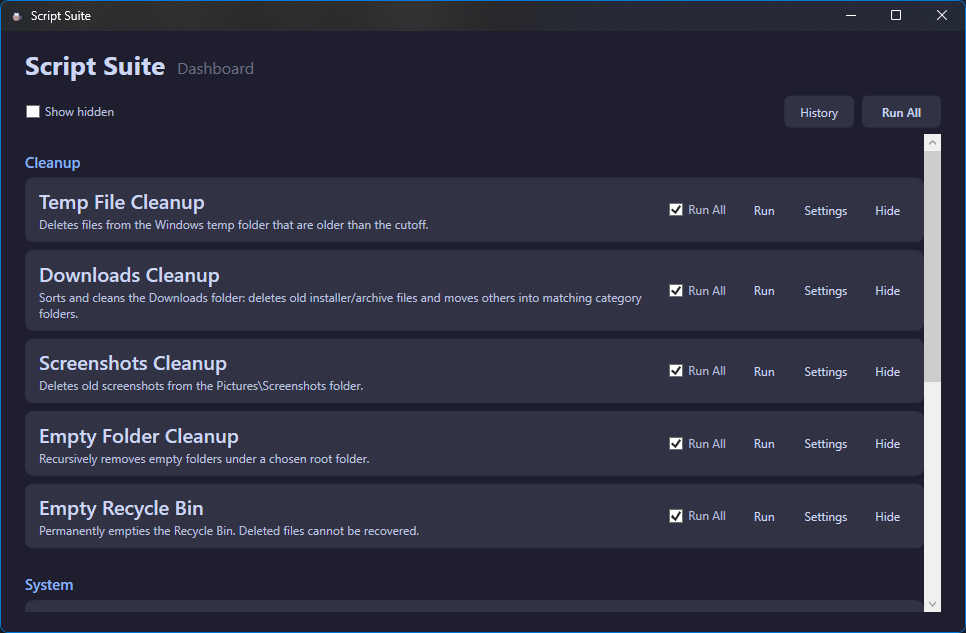
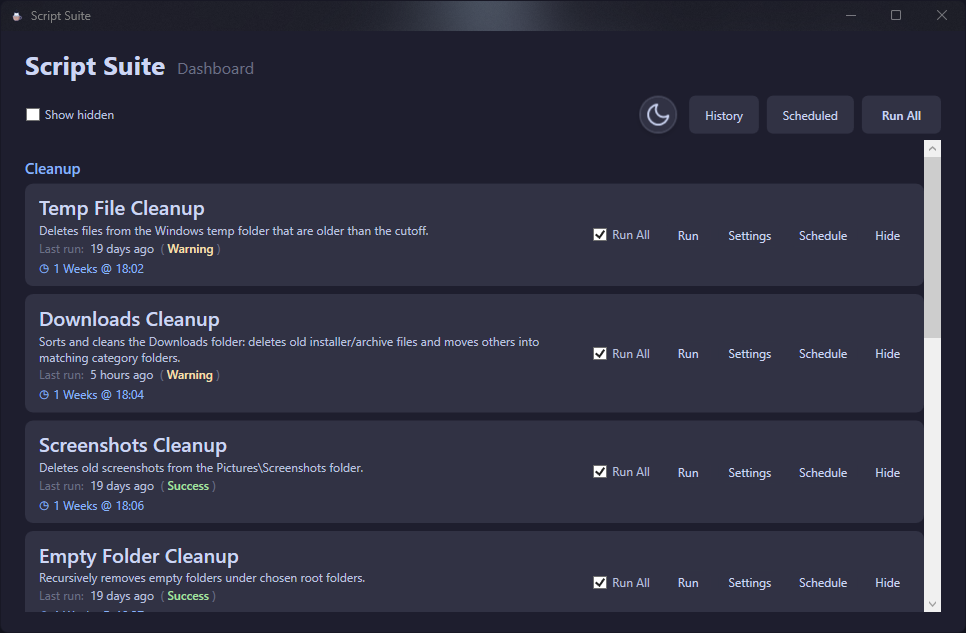
docs: update README and preview screenshots

diff --git a/README.md b/README.md
@@ -9,7 +9,7 @@ A Windows maintenance suite — a WPF dashboard (`ScriptSuite`) over nine self-c
 
 ![ScriptSuite dashboard](assets/dashboard.png)
 
-*ScriptSuite dashboard in Mocha dark (966×633) — the Cleanup section shown (5 of 9 script tiles); System and Reports sections continue below. Each tile has run, settings, and hide controls, plus "run all" selection. History and Run All are accessible from the header.*
+*ScriptSuite dashboard in Mocha dark (966×633) — showing the top Cleanup tiles; Empty Recycle Bin, System, and Reports sections continue below. Each tile shows last-run status and any active schedule (`◷`), plus `Run All` selection and `Run`, `Settings`, `Schedule`, and `Hide` controls. The circular theme toggle (Moon/Sun), `History`, `Scheduled`, and `Run All` buttons (plus `?` help) are in the header.*
 
 ## Download — for most users (no SDK needed)
 
@@ -17,9 +17,9 @@ A Windows maintenance suite — a WPF dashboard (`ScriptSuite`) over nine self-c
 
 1. Download [`ScriptSuite-win-x64-self-contained.zip`](https://github.com/Bllodwolfie/windows-scripts/releases/download/v4.0.0/ScriptSuite-win-x64-self-contained.zip) (self-contained `win-x64`, no .NET runtime to install).
 2. Right-click the zip → `Extract All` → open the folder.
-3. **Primary install method:** Double-click `Install.cmd`. It automatically unblocks downloaded files, bypasses restrictive execution policies, prompts for UAC elevation to install to `%ProgramFiles%\ScriptSuite\` with admin-only write ACLs (SEC-02), creates the Start Menu shortcut (Windows Search → `ScriptSuite`), and verifies the installation.
+3. **Primary install method:** Double-click `Install.cmd`. It automatically unblocks downloaded files, bypasses restrictive execution policies, prompts for UAC elevation to install to `%ProgramFiles%\ScriptSuite\` with admin-only write ACLs (SEC-02), creates the Start Menu shortcut (Windows Search → `ScriptSuite`), registers ScriptSuite in Windows **Installed apps** (with `Uninstall.cmd` / `Uninstall.ps1`), and verifies the installation.
    - **Manual fallback:** Open PowerShell and run `powershell -ExecutionPolicy Bypass -File .\Install.ps1`, or run `ScriptSuite.exe` directly as a portable app without installing.
-4. **Uninstallation:** Uninstall via Windows **Settings > Installed apps** (or run `Uninstall.cmd` / `Uninstall.ps1`). This removes the app and its scheduled tasks but keeps `%LOCALAPPDATA%\ScriptSuite` data (`history.db`, configs).
+4. **Uninstallation:** Uninstall via Windows **Settings > Installed apps** (or run `Uninstall.cmd` / `Uninstall.ps1`). This removes the app and its scheduled tasks (including uninstalling cleanly from a temp copy when triggered via Installed apps) while keeping `%LOCALAPPDATA%\ScriptSuite` data (`history.db`, configs).
 
 > **First-run SmartScreen & UAC:** The installer and exe are unsigned, so Windows SmartScreen shows "Windows protected your PC" (`More info` → `Run anyway`) and UAC elevation prompts show `cmd.exe` or `powershell.exe` rather than a publisher. The zip comes from GitHub via `Mark of the Web`; double-clicking `Install.cmd` automatically applies `Unblock-File`. No admin needed to run the app itself.
 
@@ -27,7 +27,7 @@ A Windows maintenance suite — a WPF dashboard (`ScriptSuite`) over nine self-c
 
 ## Build from source — for developers
 
-**Prerequisite:** [.NET 10 SDK](https://dotnet.microsoft.com/download) (`10.0.x`, `dotnet --version` should print `10.0.400+`). The app builds `ScriptSuite/ScriptSuite.csproj:3` (`net10.0-windows`, `UseWPF`).
+**Prerequisite:** [.NET 10 SDK](https://dotnet.microsoft.com/download) (`10.0.x`, `dotnet --version` should print `10.0.400+`). The app builds `ScriptSuite/ScriptSuite.csproj` (`net10.0-windows`, `UseWPF`).
 
 ```powershell
 git clone https://github.com/Bllodwolfie/windows-scripts.git
@@ -59,36 +59,38 @@ Get-ChildItem .\scripts -Recurse -Filter *.ps1 | Unblock-File
 
 ## The 9 scripts
 
-Descriptions are verbatim from `ScriptSuite/Manifests/*.json:2` (source of truth for what ships; `v1.0.1` excludes `m12_elevated_test` test scaffolding).
+Descriptions come from `ScriptSuite/Manifests/*.json` (source of truth for what ships; `v1.0.1` excludes `m12_elevated_test` test scaffolding):
 
 | Script | What it does | Requires admin |
 |--------|--------------|----------------|
 | [SystemHealthReport](scripts/SystemHealthReport/) | Generates a self-contained HTML report of system health (CPU, memory, disks, network, errors). | No |
 | [ClearEventLogs](scripts/ClearEventLogs/) | Backs up and clears all Windows event logs. | **Yes** |
-| [DownloadsCleanup](scripts/DownloadsCleanup/) | Sorts and cleans the Downloads folder: deletes old installer/archive files and moves others into matching category folders. Supports Advanced per-extension rules (Ignore/Delete/MoveTo) that override the simple `Extensions to delete` list. | No |
-| [EmptyFolderCleanup](scripts/EmptyFolderCleanup/) | Recursively removes empty folders under chosen root folders. Protects common build and project directories (.git, .svn, .hg, node_modules, vendor, .venv, venv, __pycache__, .cargo, target, bin, obj, .vs, build, dist, packages, .nuget), skips reparse points (junctions, symlinks, OneDrive placeholders), and supports multiple scan roots. | No |
-| [EmptyRecycleBin](scripts/EmptyRecycleBin/) | Permanently empties the Recycle Bin. Deleted files cannot be recovered. Supports “Only delete items older than N days” (0 = everything). | No |
+| [DownloadsCleanup](scripts/DownloadsCleanup/) | Sorts and cleans the Downloads folder: deletes old installer/archive files and moves others into matching category folders (including Music, Videos, Pictures, Modeling, Cisco PacketTracer, Spreadsheets, Presentations, Text, and Configuration). Supports `IgnorePatterns`, multiple `SourceDirs`, and Advanced per-extension rules (`Ignore`/`Delete`/`MoveTo`) that override the simple `Extensions to delete` list. | No |
+| [EmptyFolderCleanup](scripts/EmptyFolderCleanup/) | Recursively removes empty folders under chosen root folders via a single bottom-up scan. Protects common build and project directories (`.git`, `.svn`, `.hg`, `node_modules`, `vendor`, `.venv`, `venv`, `__pycache__`, `.cargo`, `target`, `bin`, `obj`, `.vs`, `build`, `dist`, `packages`, `.nuget`), skips reparse points (junctions, symlinks, OneDrive placeholders), and supports multiple scan roots. | No |
+| [EmptyRecycleBin](scripts/EmptyRecycleBin/) | Permanently empties the Recycle Bin. Deleted files cannot be recovered. Supports “Only delete items older than N days” (`0` = everything). | No |
 | [RestorePoint](scripts/RestorePoint/) | Creates a System Restore point and verifies it actually appeared. | **Yes** |
-| [ScreenshotsCleanup](scripts/ScreenshotsCleanup/) | Deletes old screenshots from the Pictures\Screenshots folder. | No |
+| [ScreenshotsCleanup](scripts/ScreenshotsCleanup/) | Deletes old screenshots from chosen folders (default `Pictures\Screenshots`). Supports multiple `TargetFolders` and `IgnorePatterns`. | No |
 | [SoftwareInventory](scripts/SoftwareInventory/) | Generates a text report of all installed software. | No |
-| [TempCleanup](scripts/TempCleanup/) | Deletes files from the Windows temp folder that are older than the cutoff. | No |
+| [TempCleanup](scripts/TempCleanup/) | Deletes files from chosen temp folders (default `%TEMP%`) that are older than the cutoff. Supports multiple `TargetFolders` and `IgnoreFolders`. | No |
 
-Defaults live in `ScriptSuite/DefaultConfigs/*.json:1` and copy to `%LOCALAPPDATA%\ScriptSuite\Configs\` on first run (`AppPaths.cs:37` `EnsureConfigsSeeded`, never overwrites existing):
+Defaults live in `ScriptSuite/DefaultConfigs/*.json` and copy to `%LOCALAPPDATA%\ScriptSuite\Configs\` on first run (`AppPaths.cs` `EnsureConfigsSeeded`, never overwrites existing):
 
-- `ClearEventLogs` → `BackupDir: %USERPROFILE%\Documents\Script_Logs\EventLogBackups`
-- `DownloadsCleanup` → `SourceDirs: ["%USERPROFILE%\Downloads"]`, `CutoffDays: 7`, `LogDir: %USERPROFILE%\Documents\Script_Logs` (+ `DeleteExts` / `Categories`)
-- `EmptyFolderCleanup` → `TargetFolders: ["%USERPROFILE%\Downloads"]`, `UseDefaultIgnoreNames: true`
-- `ScreenshotsCleanup` → `TargetFolders: ["%USERPROFILE%\Pictures\Screenshots"]`, `CutoffDays: 7`
+- `ClearEventLogs` → `BackupDir: %USERPROFILE%\Documents\Script_Logs\EventLogBackups`, `CutoffDays: 0`
+- `DownloadsCleanup` → `SourceDirs: ["%USERPROFILE%\Downloads"]`, `CutoffDays: 7`, `LogDir: %USERPROFILE%\Documents\Script_Logs`, `LogFile: CleanupLog.txt`, `DeleteExts`, `IgnorePatterns: []`, `AdvancedRules: {}`, `Categories` (9 categories including `Documents\Networking\PacketTracer`)
+- `EmptyFolderCleanup` → `TargetFolders: ["%USERPROFILE%\Downloads"]`, `IgnoreFolders: []`, `UseDefaultIgnoreNames: true`, `LogDir: %USERPROFILE%\Documents\Script_Logs`, `LogFile: CleanupLog.txt`
+- `EmptyRecycleBin` → `MinAgeDays: 0`
+- `RestorePoint` → `Description: "Monthly Cleanup"`
+- `ScreenshotsCleanup` → `TargetFolders: ["%USERPROFILE%\Pictures\Screenshots"]`, `CutoffDays: 7`, `IgnorePatterns: []`, `LogDir: %USERPROFILE%\Documents\Script_Logs`, `LogFile: CleanupLog.txt`
 - `SoftwareInventory` → `OutputFile: %USERPROFILE%\Documents\Script_Logs\Software_Inventory.txt`
-- `SystemHealthReport` → `OutputDir: %USERPROFILE%\Documents`, `OutputFile: System_Health_Report.html`
-- `TempCleanup` → `TargetFolders: ["%TEMP%"]`, `CutoffDays: 7`
+- `SystemHealthReport` → `OutputDir: %USERPROFILE%\Documents`, `OutputFile: System_Health_Report.html`, `MaxTopProcesses: 10`, `MaxErrorEvents: 20`, `ErrorWindowHours: 24` (+ Mocha/Latte palettes)
+- `TempCleanup` → `TargetFolders: ["%TEMP%"]`, `CutoffDays: 7`, `IgnoreFolders: []`
 
 > [!NOTE]
-> **Multi-Root Cleanup Scanning:** `EmptyFolderCleanup`, `TempCleanup`, `ScreenshotsCleanup`, and `DownloadsCleanup` support scanning multiple root folders (`TargetFolders` or `SourceDirs`), automatically de-duplicating identical or overlapping nested roots and gracefully skipping inaccessible folders. `EmptyFolderCleanup` also skips reparse points (junctions, symlinks, OneDrive placeholders) and protects standard build and project folders (`.git`, `.svn`, `.hg`, `node_modules`, `vendor`, `.venv`, `venv`, `__pycache__`, `.cargo`, `target`, `bin`, `obj`, `.vs`, `build`, `dist`, `packages`, `.nuget`) by default unless opted out via `UseDefaultIgnoreNames: false`.
+> **Multi-Root Cleanup Scanning:** `EmptyFolderCleanup`, `TempCleanup`, `ScreenshotsCleanup`, and `DownloadsCleanup` support scanning multiple root folders (`TargetFolders` or `SourceDirs` with backward-compatible single-folder fallback), automatically de-duplicating identical or overlapping nested roots and gracefully skipping inaccessible folders. `EmptyFolderCleanup` also uses a single bottom-up scan, skips reparse points (junctions, symlinks, OneDrive placeholders), and protects standard build and project folders (`.git`, `.svn`, `.hg`, `node_modules`, `vendor`, `.venv`, `venv`, `__pycache__`, `.cargo`, `target`, `bin`, `obj`, `.vs`, `build`, `dist`, `packages`, `.nuget`) by default unless opted out via `UseDefaultIgnoreNames: false`.
 
 Each script supports dry-run preview where `supportsDryRun: true` in its manifest (7 of 9; `SoftwareInventory` and `SystemHealthReport` are reports, not previews).
 
-*Sample `System Health Report` output (fictional data, Catppuccin Mocha/Latte, 1360×1600) — see `assets/preview.png`:*
+*Sample `System Health Report` output (Catppuccin Mocha with built-in Mocha/Latte toggle, 1920×1080) — see `assets/preview.png`:*
 
 ![Sample System Health Report](assets/preview.png)
 
@@ -100,21 +102,21 @@ Each script supports dry-run preview where `supportsDryRun: true` in its manifes
 
 ## Scheduling — unattended runs via Task Scheduler
 
-Every script (all 9, including the 2 admin ones) can be scheduled from its tile **Schedule** button. The dialog supports `Days`, `Hours`, and `Weeks` intervals:
+Every script (all 9, including the 2 admin ones) can be scheduled from its tile **Schedule** button or from the **Scheduled Tasks** overview window. The dialog supports `Days`, `Hours`, and `Weeks` intervals:
 * **Weekly recurrence & weekday selection:** When `Weeks` is selected, Mon–Sun checkboxes allow choosing any combination of weekdays (at least one required). For multi-week schedules (`Interval > 1`), a start date picker anchors the recurrence week cycle.
 * **Daily and hourly start date:** For `Days` or `Hours`, specify an optional start date to anchor recurrence or delay the first execution.
 * **Live next run preview:** Displays `"Next run: Ddd dd.MM.yyyy HH:mm"` computed from the exact trigger calculation algorithm.
 * **Collision warnings:** Non-blocking warning banner notifies you if another enabled script is scheduled at the same time on overlapping days to avoid `Skipped — app was busy` single-instance mutex conflicts.
-* **Two tiers under the hood, one UI:** 7 non-admin scripts register `InteractiveToken Limited` tasks; 2 admin scripts (`ClearEventLogs`, `RestorePoint`) register `S4U HighestAvailable` tasks. If a task requires administrative rights to modify (such as an existing admin-owned task), the UI seamlessly prompts for UAC elevation to update the task cleanly.
-* **Per-script risk opt-in:** first time you schedule an admin script, check `I understand the risks` (stored in `%LOCALAPPDATA%\ScriptSuite\risk-consents.json` per-script, persists after unscheduling). This is separate from the **one-time UAC at Save** needed to register a `HighestAvailable` task — after that, runs are silent forever (no UAC at run time).
-* **UAC on schedule save:** Each schedule save triggers one UAC prompt by design to register or update tasks in Windows Task Scheduler; subsequent scheduled runs execute headlessly in the background without UAC prompts.
-* **Scheduled History is separate:** header `Scheduled` button opens `Scheduled History` (`Services/RunHistoryStore.cs` `ScheduledRuns` table, `INSERT` via headless `ScriptSuite.exe --scheduled-run <id>`). Manual `History` and scheduled history are distinct tabs. `Skipped — app was busy` is a distinct outcome (not silently dropped, not queued) when a trigger fires while the dashboard is open (single-instance `Global\ScriptSuite_SingleInstance_<SID>` mutex + file-lock fallback).
-* **App remains closed between runs:** Task Scheduler launches `ScriptSuite.exe --scheduled-run <id>` headlessly, it runs via `Services/ScriptExecutor.cs` `CreateDefault` (self-contained fix for `PSHOME`/`CimCmdlets` headless), inserts into `ScheduledRuns`, and exits — no tray/background process. Results only visible in `Scheduled` tab (no notifications).
-* **Storage:** schedules in `%LOCALAPPDATA%\ScriptSuite\schedules.json` (`Models/ScheduleEntry.cs`), `risk-consents.json`, and `history.db` `ScheduledRuns` (`Services/RunHistoryStore.cs:25`). `Remove Schedule` in the same dialog unregisters the task (`Unregister-ScheduledTask`) and clears the entry (dashboard `◷` indicator `HasSchedule`/`ScheduleSummary` disappears).
+* **Two tiers under the hood, one UI:** 7 non-admin scripts register `InteractiveToken Limited` tasks without UAC unless updating an existing admin-owned task returns Access Denied (`0x80070005`); 2 admin scripts (`ClearEventLogs`, `RestorePoint`) register `S4U HighestAvailable` tasks and prompt for UAC once at save. After saving, scheduled runs execute headlessly in the background with no UAC prompts.
+* **Per-script risk opt-in:** First time you schedule an admin script, check `I understand the risks` (stored in `%LOCALAPPDATA%\ScriptSuite\risk-consents.json` per-script, persists after unscheduling). This is separate from the **one-time UAC at Save** needed to register a `HighestAvailable` task.
+* **Dedicated Scheduled Tasks window:** Header `Scheduled` button opens `Scheduled Tasks` (`ScheduledTasksWindow`), listing all 9 scripts with their active schedule summary (`Active Schedule` badge), last-ran timestamp/outcome, and a `Configure` button for each script.
+* **Unified Run History:** Header `History` button opens the unified `Run History` window (`HistoryWindow`), combining manual and scheduled runs in one list with `Manual` / `Scheduled` trigger badges, search, **Trigger** (`All` / `Manual` / `Scheduled`) and **Outcome** filters, pagination (100 rows per page), and expandable per-row log details (`Open log file` / `Open folder`). `SkippedBusy` (`Skipped — app was busy`) is recorded as a distinct outcome (not silently dropped, not queued) when a scheduled trigger fires while the dashboard is open (`Global\ScriptSuite_SingleInstance_<SID>` mutex + file-lock fallback).
+* **App remains closed between runs:** Task Scheduler launches `ScriptSuite.exe --scheduled-run <id>` headlessly, runs via `Services/ScriptExecutor.cs` `CreateDefault` (self-contained fix for `PSHOME`/`CimCmdlets` headless), inserts into `history.db` (`RunHistory`, mirrored to `ScheduledRuns` for compatibility), and exits — no tray or background process and no toast notifications.
+* **Storage:** Schedules live in `%LOCALAPPDATA%\ScriptSuite\schedules.json` (`Models/ScheduleEntry.cs`), `risk-consents.json`, and `history.db` (`Services/RunHistoryStore.cs`, auto-pruned after 28 days). `Remove Schedule` in the same dialog unregisters the task (`Unregister-ScheduledTask`) and clears the entry (dashboard `◷` indicator `HasSchedule`/`ScheduleSummary` disappears).
 
 ## Themes
 
-Dashboard header `Theme: Dark / Latte` toggles Catppuccin Mocha (dark, `#1E1E2E`) and Latte (light, `#EFF1F5`). The switch is runtime — no restart required — and persists to `%LOCALAPPDATA%\ScriptSuite\theme.json` (default Dark, so existing installs are unaffected). All windows — dashboard, Settings, Run, History, Schedule, wizard — follow the selected palette via `DynamicResource` (`Themes/Tokens.xaml` / `Themes/Tokens.Latte.xaml`).
+The dashboard header's circular **Moon/Sun** theme toggle button switches between Catppuccin Mocha (dark, `#1E1E2E`) and Latte (light, `#EFF1F5`) at runtime — no restart required — and persists to `%LOCALAPPDATA%\ScriptSuite\theme.json` (default Dark, so existing installs are unaffected). All windows (Dashboard, Settings, Run, History, Scheduled Tasks, Schedule, and First-Run Wizard) follow the selected palette via `DynamicResource` (`Themes/Tokens.xaml` / `Themes/Tokens.Latte.xaml`), with custom `TextBox`, `ComboBox`, and `ComboBoxItem` control templates bound to theme tokens (`v3.2.3+`) so third-party theming tools (such as Windhawk) do not break control contrast or clipping.
 
 ## Help
 
@@ -123,15 +125,19 @@ Contextual `?` buttons appear in the dashboard header (`Script Suite / Dashboard
 ## Known limitations & notices
 
 - **Unsigned installer & exe:** The installer and exe are unsigned, so SmartScreen shows "Windows protected your PC" (`More info` → `Run anyway`) and UAC shows `cmd.exe` or `powershell.exe`, not a publisher. No EV cert yet.
-- **Uninstallation data retention:** Uninstall via Windows **Settings > Installed apps** removes the app and its scheduled tasks but keeps `%LOCALAPPDATA%\ScriptSuite` data (`history.db`, configs).
-- **UAC schedule save prompts:** Each schedule save triggers one UAC prompt by design.
-- **SQLite WAL sidecars:** run history lives at `%LOCALAPPDATA%\ScriptSuite\history.db` (`RunHistoryStore.cs:84` `journal_mode=WAL`, `busy_timeout=5000`). Beside it you will see `history.db-wal` / `history.db-shm` — normal for WAL; don't copy the `.db` alone while the app is running (raw `File.Copy` would miss uncheckpointed wal). Use `wal_checkpoint` or the app’s backup API when it exists.
-- **SEC-03 (Config & temp interchange scope):** elevated runs read user-writable configs from `%LOCALAPPDATA%\ScriptSuite\Configs` and exchange temporary IPC files via `%TEMP%`. Mitigated by `Test-PathScope` and schema validation; not architecturally isolated.
+- **Uninstallation data retention:** Uninstall via Windows **Settings > Installed apps** (or `Uninstall.cmd` / `Uninstall.ps1`) removes the app and its scheduled tasks (using a temp copy when launched from Installed apps) while keeping `%LOCALAPPDATA%\ScriptSuite` data (`history.db`, configs). Installer and uninstaller logs at `%ProgramData%\ScriptSuite\install.log` and `uninstall.log` are capped at 256 KB.
+- **UAC schedule save prompts:** Admin scripts (`ClearEventLogs`, `RestorePoint`) trigger one UAC prompt on schedule save to register `HighestAvailable` tasks; non-admin scripts only elevate on save if overwriting an existing admin-owned task returns Access Denied.
+- **SQLite WAL sidecars:** Run history lives at `%LOCALAPPDATA%\ScriptSuite\history.db` (`Services/RunHistoryStore.cs` `journal_mode=WAL`, `busy_timeout=5000`, 28-day retention pruning). Beside it you will see `history.db-wal` / `history.db-shm` — normal for WAL; don't copy the `.db` alone while the app is running (raw `File.Copy` would miss uncheckpointed WAL data).
+- **SEC-03 (Config & temp interchange scope):** Elevated runs read user-writable configs from `%LOCALAPPDATA%\ScriptSuite\Configs` and exchange temporary IPC files via `%TEMP%`. Mitigated by `Test-PathScope` and schema validation; not architecturally isolated.
 - **SEC-04 (Configuration Trust System):** All configuration files in `%LOCALAPPDATA%\ScriptSuite\Configs` are protected by a SHA-256 trust store (`%LOCALAPPDATA%\ScriptSuite\config-trust.json`). Saving settings via the application UI automatically approves the configuration. If a configuration file is edited by hand, swapped, or imported, it is marked untrusted until reviewed:
   - **Interactive Execution & Scheduling:** Prompts with a modal review dialog displaying the planned action summary, targeted paths, and patterns before a live run or schedule creation/edit can proceed (Cancel is the default; dry-run preview is exempt).
-  - **Headless & Elevated Execution:** Headless tasks (`--scheduled-run` and `--elevated-run`) strictly reject untrusted configs without prompting, record a `Failed` entry in `ScheduledRuns` with `"Config not trusted; open ScriptSuite and review it"`, and exit with code 1. Elevated child processes re-verify config trust independently.
+  - **Headless & Elevated Execution:** Headless tasks (`--scheduled-run` and `--elevated-run`) strictly reject untrusted configs without prompting, record a `Failed` entry in `history.db` with `"Config not trusted; open ScriptSuite and review it"`, and exit with code 1. Elevated child processes re-verify config trust independently.
   - **Scope Protection:** Combined with `Test-PathScope` path denylisting (blocking drive roots, system/program directories, user profile roots, and data roots), external or malicious config modifications cannot silently manipulate files. Scripts without dry-run (`SoftwareInventory`, `SystemHealthReport`) require an explicit "Run" click showing resolved output paths instead of executing automatically on window load.
 - **UAC save flow testing:** The interactive UAC elevation prompt during schedule saving is hand-tested only; automated regression suites simulate the elevation helper return codes and Win32 cancellation via internal seams.
+- **Unreleased (`dev`) vs v4.0.1:** Multi-folder scanning support extended to `TempCleanup`, `ScreenshotsCleanup`, and `DownloadsCleanup` (`TargetFolders` and `SourceDirs` with backward-compatible single-folder fallback, deduplication, and nested root elimination).
+- **v4.0.1 vs v4.0.0:** Documentation lists the complete built-in protected ignore list for `EmptyFolderCleanup`.
+- **v4.0.0 vs v3.2.3:** Dedicated `Scheduled Tasks` window; unified `Run History` with search, Trigger/Outcome filters, and pagination; Windows **Installed apps** registration (`Uninstall.cmd` / `Uninstall.ps1` alongside the app, uninstalling from a temp copy); `EmptyFolderCleanup` multi-folder scanning, single bottom-up scan, `UseDefaultIgnoreNames` built-in protected folder list, and reparse-point skipping; `DownloadsCleanup` Cisco PacketTracer category; 256 KB installer/uninstaller log cap; and fixes for paths containing spaces and installer exit hangs.
+- **v3.2.3 vs v3.2.2:** Custom `TextBox`, `ComboBox`, and `ComboBoxItem` control templates bound to theme tokens for compatibility with third-party theming tools (e.g., Windhawk), and fix for History search box text clipping.
 - **v3.2.2 vs v3.2.1:** Reliable installation experience: added `Install.cmd` for zero-setup execution policy bypass and Mark-of-the-Web unblocking; fixed Windows PowerShell 5.1 parameter initialization crash by resolving script paths in script body; prebuilt-exe mode operates without project or .NET SDK dependencies; persistent installation and uninstallation logs written to `%ProgramData%\ScriptSuite\install.log` and `uninstall.log`; launcher waits for elevated installer and reports unified PASS/FAIL status; and comprehensive isolated regression test suite.
 - **v3.2.1 vs v3.2.0:** Stricter task registration, elevation escalation restricted strictly to proven access denied (eliminating false-positive elevation), elimination of unregister-before-register in favor of atomic replacement via `Register-ScheduledTask -Force`, UI CLIXML error sanitization, extended 120s elevated timeout with read-back verification, and expanded test coverage.
 - **v3.2.0 vs v3.1.2:** Schedule control (multi-weekday selector, multi-week anchor date, start date picker, live next-run preview, collision warnings, strict XML trigger verification, and seamless elevation fallback for admin-owned tasks).
@@ -140,7 +146,7 @@ Contextual `?` buttons appear in the dashboard header (`Script Suite / Dashboard
 - **v3.1.0 vs v3.0.3:** SEC-04 (Configuration Trust System: SHA-256 trust store, interactive approval dialog, headless rejection with exit 1, child re-verification), audit hardening (removal of test elevation override, restoration of original file encodings, validation of all category destinations, and dynamic SoftwareInventory extension derivation), and non-dry-run explicit execution.
 - **v3.0.0 vs v2.1.1:** SEC-02 (install to %ProgramFiles% with admin write ACLs, task migration, one-time UAC prompt on install), SEC-01 (elevated run script ID validation), DST fix (local StartBoundary on triggers, eliminating 1-hour drift), and bug fixes BUG-01..09 (BUG-01 hourly scheduler, BUG-02 retention validation, BUG-04 extension dot normalization, BUG-05 pattern escaping, BUG-06 quote stripping, BUG-07 path scope decoupling, BUG-08 update metric relabel, BUG-09 restore point fast-fail). Full details in [CHANGELOG.md](CHANGELOG.md).
 - **v2.0.0 vs v1.1.0:** Dark palette unchanged (Phase 1). `v2.0.0` adds 3 UI fixes (Scheduled History rendering, collapsible Run All preview, log-routed history detail), Downloads Cleanup `Advanced Rules` (Ignore/Delete/MoveTo) + its `MoveTo`-empty-destination validation, EmptyRecycleBin `MinAgeDays` (0 = everything, filtered via `DateDeleted`), Light Mode Dark/Latte runtime switch (persisted), and Help/Guide P0+P1 contextual `?`.
-- **v1.1.0 vs v1.0.1:** `v1.0.1` shipped 9 scripts (excluded `m12_elevated_test` via `ScriptSuite.csproj:21`). `v1.1.0` adds scheduling (engine, `S4U` split, `ScheduledRuns` separate table, mutex `SkippedBusy`, UI `Schedule`/`Scheduled History`). No behavior change for manual runs.
+- **v1.1.0 vs v1.0.1:** `v1.0.1` shipped 9 scripts (excluded `m12_elevated_test` via `ScriptSuite.csproj`). `v1.1.0` adds scheduling (engine, `S4U` split, `ScheduledRuns` separate table, mutex `SkippedBusy`, UI `Schedule`/`Scheduled History`). No behavior change for manual runs.
 
 ## License
 
